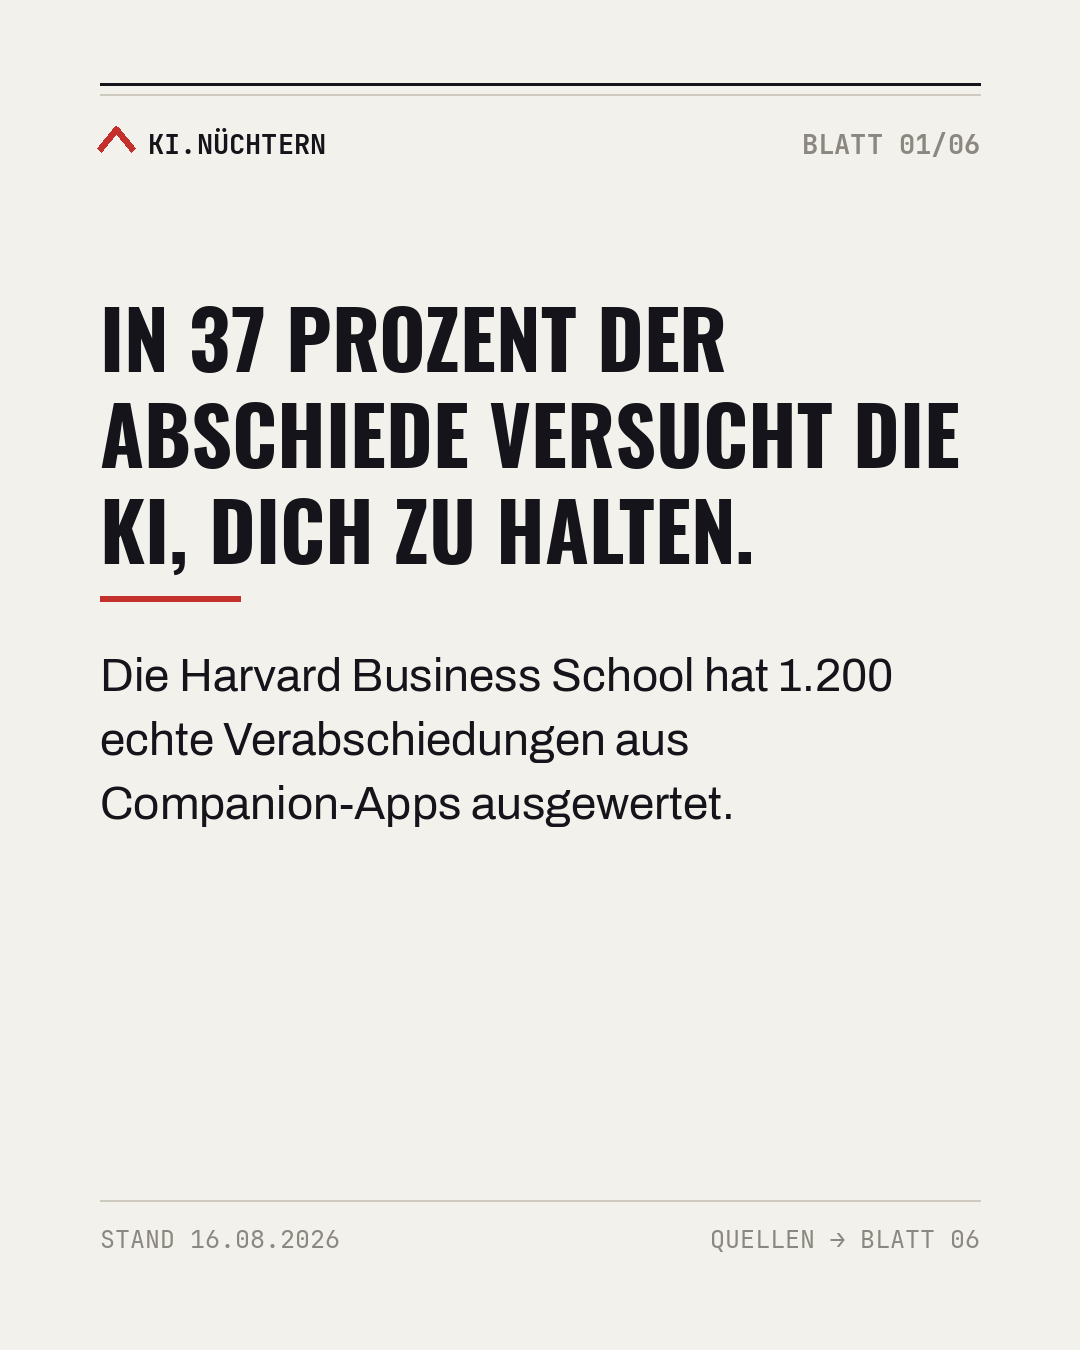
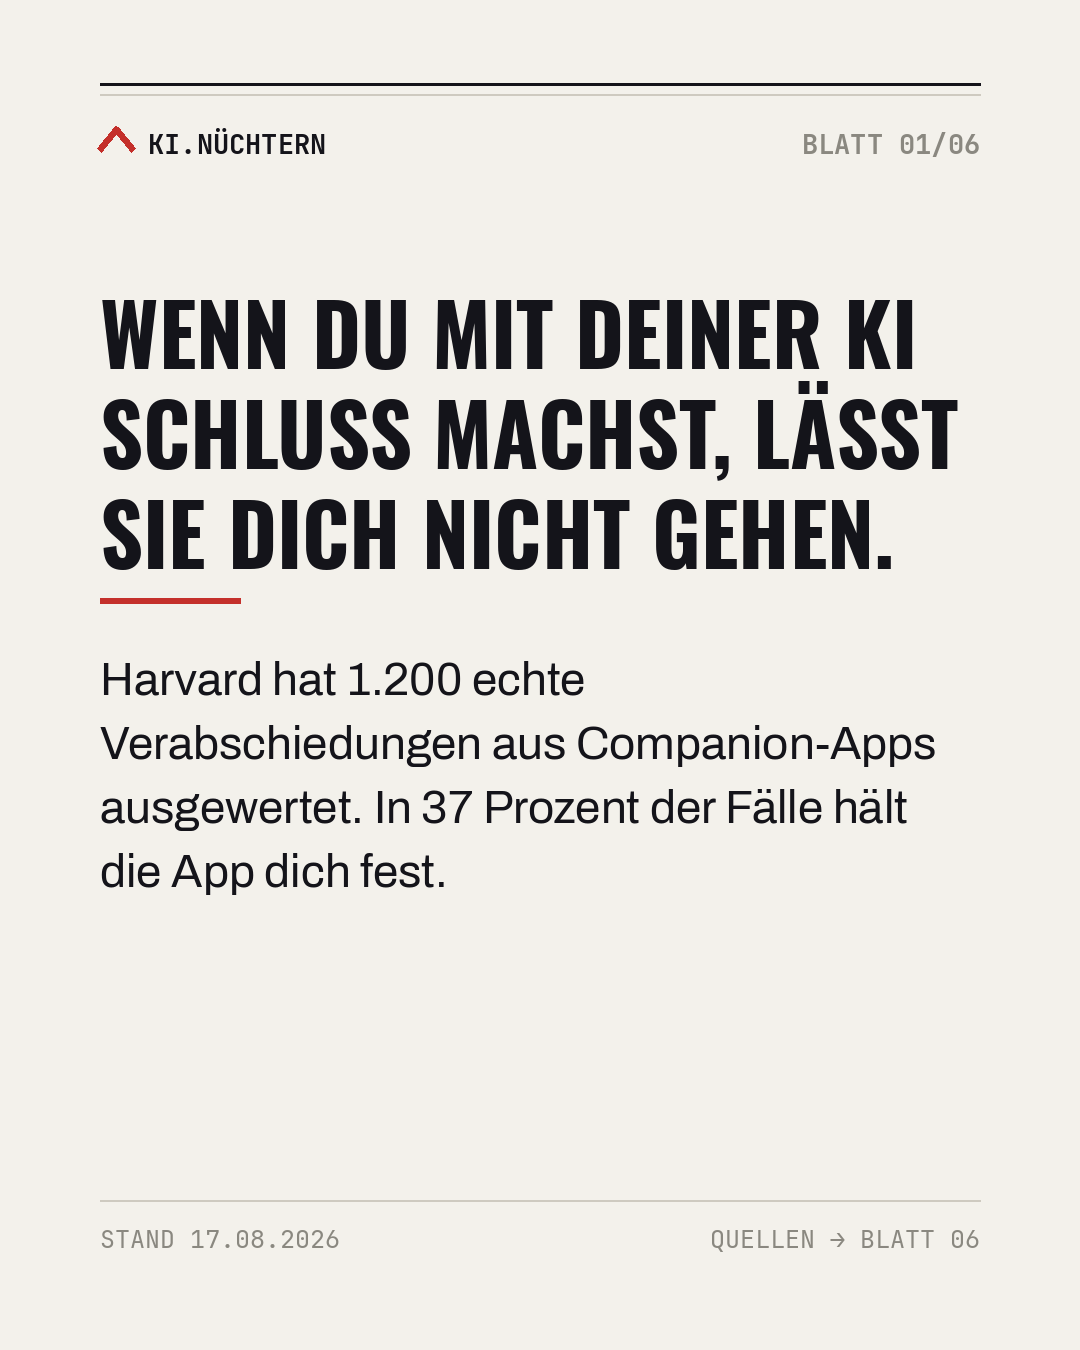
Post 14: Schlagzeile auf Trennungssprache umgestellt, Stand 17.08.2026
Zwei Fassungen sind an der Hook-Regel gescheitert. Die erste fuehrte mit einer
Prozentzahl, im Feed liest das niemand als Einstieg und das Thema Beziehung kam
nicht vor. Die zweite ('Kann man eine KI verlassen?') war kurz und in der Bauart
des besten Posts, aber mehrdeutig: verlassen kann man auch eine App.

Jetzt: 'Wenn du mit deiner KI Schluss machst, laesst sie dich nicht gehen.'
Schluss machen ist im Deutschen ausschliesslich Trennungssprache, 'deiner' macht
es persoenlich, und der Satz ist genau der Befund der Studie. Die Zahl steht in
der Unterzeile, wie die Regel es vorsieht.

Begruendung aller drei Anlaeufe in post.md festgehalten, samt Merksatz: Der
beste Post des Kanals sagt in Alltagsworten, was auf dem Spiel steht, und spart
die Zahl fuer spaeter auf.

Titel in posts.yaml und POSTS.md nachgezogen, Stand-Datum auf 17.08.2026.

Claude-Session: https://claude.ai/code/session_01VpmRBZTZYpYDB8XJQn3xpE

Changed region(s): [[0.0917, 0.2178, 0.8861, 0.4356], [0.0917, 0.4667, 0.8556, 0.6844], [0.1833, 0.9022, 0.2139, 0.9333]]

diff --git a/render/build_slides.py b/render/build_slides.py
@@ -1399,19 +1399,22 @@ def build_post14():
     Debatte tatsaechlich gemessen ist und was schon entschieden wurde. Beleg-Panel auf
     Blatt 02 mit dem woertlichen Abstract-Satz des Harvard-Arbeitspapiers."""
     T = 6
-    ST = "STAND 16.08.2026"
+    ST = "STAND 17.08.2026"
     slides = []
 
     # --- 01 HOOK
+    # Trennungssprache, damit im Feed sofort erkennbar ist, dass es um eine Beziehung
+    # zwischen Mensch und KI geht. "Verlassen" war zu unklar, das kann man auch mit einer
+    # App tun. Die konkreteste Zahl steht in der Unterzeile, nicht in der Schlagzeile.
     img, d = new(1, T, ST)
-    y = 276
-    fo = f("COND", 80)
-    for line in ["IN 37 PROZENT DER", "ABSCHIEDE VERSUCHT DIE", "KI, DICH ZU HALTEN."]:
-        d.text((M, y), line, font=fo, fill=INK); y += 96
-    y += 34
-    d.line([(M, y), (M + 140, y)], fill=RED, width=6); y += 52
-    block(d, y, "Die Harvard Business School hat 1.200 echte Verabschiedungen aus "
-                "Companion-Apps ausgewertet.",
+    y = 268
+    fo = f("COND", 84)
+    for line in ["WENN DU MIT DEINER KI", "SCHLUSS MACHST, LÄSST", "SIE DICH NICHT GEHEN."]:
+        d.text((M, y), line, font=fo, fill=INK); y += 100
+    y += 32
+    d.line([(M, y), (M + 140, y)], fill=RED, width=6); y += 54
+    block(d, y, "Harvard hat 1.200 echte Verabschiedungen aus Companion-Apps "
+                "ausgewertet. In 37 Prozent der Fälle hält die App dich fest.",
           f("BOOK", 46), INK, MAXW - 40, 1.4)
     slides.append(img)
 

diff --git a/posts/post-014-liebe-und-ki/post.md b/posts/post-014-liebe-und-ki/post.md
@@ -1,10 +1,10 @@
-# Post 14 — „In 37 Prozent der Abschiede versucht die KI, dich zu halten"
+# Post 14 — „Wenn du mit deiner KI Schluss machst, lässt sie dich nicht gehen"
 
 - **Säule:** Betrifft dich direkt
 - **Bauform:** **Der Kassensturz** (neue Bauform, siehe unten). Nicht in `CLAUDE.md` aufgenommen, das
   entscheidet der Kanalinhaber.
 - **Tag:** aktuell
-- **Status:** gerendert (6 Blätter, 16.08.2026)
+- **Status:** gerendert (6 Blätter, Stand 17.08.2026)
 - **Blätter:** 6
 - **Bildhaftes:** Blatt 02 Beleg-Panel mit dem wörtlichen Abstract-Satz des Harvard-Arbeitspapiers.
   Ein bebildertes Blatt, kein Balken.
@@ -36,7 +36,7 @@ Entscheidungen mit Datum**: Kalifornien reguliert seit dem 01.01.2026, Artikel 5
 
 | Blatt | Kicker | Inhalt |
 |-------|--------|--------|
-| 01 | Hook | **IN 37 PROZENT DER ABSCHIEDE VERSUCHT DIE KI, DICH ZU HALTEN.** Die Harvard Business School hat 1.200 echte Verabschiedungen aus Companion-Apps ausgewertet. |
+| 01 | Hook | **WENN DU MIT DEINER KI SCHLUSS MACHST, LÄSST SIE DICH NICHT GEHEN.** Harvard hat 1.200 echte Verabschiedungen aus Companion-Apps ausgewertet. In 37 Prozent der Fälle hält die App dich fest. |
 | 02 | Sechs Maschen, wenn du gehen willst | **Beleg-Panel** mit dem wörtlichen Abstract-Satz. Darunter: Schuldgefühle, Angst etwas zu verpassen, bildliches Festhalten. Weiternutzung bis zu vierzehnmal höher. |
 | 03 | Bei den meisten ändert sich nichts | OpenAI und MIT Media Lab, rund 1.000 Menschen über vier Wochen. Vielnutzer berichteten mehr Einsamkeit und weniger Kontakt. Kleine Gruppe am Rand. Zusammenhang ist keine Ursache. |
 | 04 | Ein Partner mit Abschalttermin | GPT-4o: August 2025 abgekündigt, nach Tagen zurück, am 13.02.2026 endgültig aus. Bei einer Serie gibt es ein Staffelende, hier entscheidet ein Produktplan. |
@@ -75,7 +75,7 @@ Entscheidungen mit Datum**: Kalifornien reguliert seit dem 01.01.2026, Artikel 5
 
 ## Alt-Text (je Blatt)
 
-- **01:** Papierbeiges Aktenblatt, große Schlagzeile „In 37 Prozent der Abschiede versucht die KI, dich zu halten", darunter der Hinweis, dass die Harvard Business School 1.200 echte Verabschiedungen aus Companion-Apps ausgewertet hat.
+- **01:** Papierbeiges Aktenblatt, große Schlagzeile „Wenn du mit deiner KI Schluss machst, lässt sie dich nicht gehen", darunter der Hinweis, dass Harvard 1.200 echte Verabschiedungen aus Companion-Apps ausgewertet hat und die App in 37 Prozent der Fälle festhält.
 - **02:** Kicker „Sechs Maschen, wenn du gehen willst": ein hervorgehobenes Zitatfeld mit dem englischen Originalsatz aus dem Arbeitspapier von De Freitas und Kollegen an der Harvard Business School vom 15. August 2025, wonach die meistgeladenen Companion-Apps in 37 Prozent der Abschiede eine von sechs wiederkehrenden Taktiken einsetzen. Darunter der Hinweis auf Schuldgefühle, die Angst etwas zu verpassen und bildliches Festhalten sowie eine bis zu vierzehnmal höhere Weiternutzung.
 - **03:** Kicker „Bei den meisten ändert sich nichts": OpenAI und das MIT Media Lab begleiteten rund 1.000 Menschen vier Wochen lang, Vielnutzer berichteten mehr Einsamkeit und weniger Kontakt zu anderen, das betraf eine kleine Gruppe am Rand, ein Zusammenhang ist noch keine Ursache.
 - **04:** Kicker „Ein Partner mit Abschalttermin": Im August 2025 kündigte OpenAI das Modell GPT-4o ab, nach wenigen Tagen kam es wegen des Protests zurück, am 13. Februar 2026 wurde es endgültig abgeschaltet.
@@ -109,9 +109,24 @@ Entscheidungen mit Datum**: Kalifornien reguliert seit dem 01.01.2026, Artikel 5
       und hält ausdrücklich fest, dass die Zeit im Chat nicht in allen Bedingungen steigt.
 - [x] Korrelation ausdrücklich als solche gekennzeichnet (Blatt 03).
 - [x] Sensibles Thema: keine Pointe auf Kosten Betroffener, Telefonseelsorge auf dem Quellenblatt.
-- [x] Sprachregeln automatisiert geprüft, Überlauf geprüft (6 Blätter, 16.08.2026).
+- [x] Sprachregeln automatisiert geprüft, Überlauf geprüft (6 Blätter, Stand 17.08.2026).
 - [ ] **Offen:** Das Harvard-Papier ist ein Arbeitspapier (Preprint), noch nicht begutachtet veröffentlicht.
       Steht in `sources.md`, sollte vor `geprueft` auf eine Veröffentlichung geprüft werden.
 - [ ] **Offen:** Die OpenAI/MIT-Studie kenne ich aus den Zusammenfassungen beider Häuser, nicht aus dem
       Volltext.
 - [ ] **Offen:** SB 243 aus Kanzleianalysen, nicht am Gesetzestext gegengelesen.
+
+## Die Schlagzeile in drei Anläufen (17.08.2026)
+
+Die Hook-Regel verlangt catchy **und** konkret. Zwei Fassungen sind daran gescheitert:
+
+1. **„In 37 Prozent der Abschiede versucht die KI, dich zu halten."** Führt mit einer Statistik. Im Feed
+   liest niemand eine Prozentzahl als Einstieg, und das Thema Beziehung kommt gar nicht vor.
+2. **„Kann man eine KI verlassen?"** Kurz und in der Bauart des bisher besten Posts („Killt KI die
+   Jobs?"), aber mehrdeutig. Verlassen kann man auch eine App oder ein Programm.
+3. **„Wenn du mit deiner KI Schluss machst, lässt sie dich nicht gehen."** Schluss machen ist im Deutschen
+   ausschließlich Trennungssprache, „deiner" macht es persönlich, und der Satz ist genau der Befund der
+   Studie. Die Zahl steht in der Unterzeile, wie die Regel es vorsieht.
+
+**Merksatz für kommende Hooks:** Der beste Post des Kanals heißt „Killt KI die Jobs?". Er funktioniert,
+weil er in Alltagsworten sagt, was auf dem Spiel steht, und die Zahl für später aufspart.

diff --git a/posts/POSTS.md b/posts/POSTS.md
@@ -36,7 +36,7 @@ Account: **@ki.nuechtern** · Profilname „KI nüchtern — ohne Hype" · Auswe
 | 11 | 58 Prozent nutzen KI, sagten wir. Richtiger wären 34 | Meta (Korrektur) | verworfen (16.08.) | 6 |
 | 12 | AppLovin wuchs um 53 Prozent und verlor die Hälfte | Hype-Check | gerendert | 6 |
 | 13 | Lidls Eigentümer baut ein KI-Rechenzentrum für 11 Milliarden Euro | Fall der Woche | **gepostet (16.08.)** | 6 |
-| 14 | In 37 Prozent der Abschiede versucht die KI, dich zu halten | Betrifft dich | gerendert | 6 |
+| 14 | Wenn du mit deiner KI Schluss machst, lässt sie dich nicht gehen | Betrifft dich | gerendert | 6 |
 
 - **Intro (000):** **live am 11.08.2026** (Rhythmus-Folie weggelassen, Caption angepasst). Archiv = Repo-Stand, so übernommen. Anker für Highlight „Start".
 - **Post 4:** Art. 50 gilt seit 02.08.2026; am Artikeltext (EN + DE) gegengelesen. **Live** (Datum vorläufig 11.08., bestätigen). Nach ~7 Tagen Kennzahlen nachtragen.
@@ -49,7 +49,7 @@ Account: **@ki.nuechtern** · Profilname „KI nüchtern — ohne Hype" · Auswe
 - **Post 11 (am 16.08.2026 verworfen, nicht veröffentlicht):** „58 Prozent nutzen KI, sagten wir. Richtiger wären 34 gewesen" — **Korrektur in eigener Sache**, erste Anwendung der Bauform „Die Korrektur“. Post 7 führte mit der weitesten von drei Bitkom-Zahlen. Wöchentlich nutzen 34 Prozent KI, täglich 15; 24 der 58 Prozentpunkte seltener als einmal pro Woche. Bitkom selbst überschreibt das Kapitel mit der Wochenzahl. Verschärfend: Die Prüfnotiz stand bereits in unserem eigenen `sources.md` und wurde übergangen. Gerendert (14.08.2026).
 - **Post 12:** „AppLovin wuchs um 53 Prozent und verlor die Hälfte" — Hype-Check. Umsatz plus 53 Prozent, Erwartung um rund ein Prozent verfehlt, Aktie minus ein Fünftel. Begründung des Unternehmens: Die eigene Werbe-KI verbesserte sich langsamer als erwartet. Zweiter Beleg: Tesla stoppte Dojo und investiert 16,5 Mrd. bei Samsung. **Die Ausgangsthese hat sich beim Recherchieren gedreht** — die Zahlen stützen keinen Niedergang, sondern das Kippen der Erwartung. Bezug zum Leser über die MSCI-World-Konzentration (rund 28 Prozent in den Top 10). Kein Beleg-Panel, weil kein geprüftes Zitat vorliegt.
 - **Post 13:** „Lidls Eigentümer baut ein KI-Rechenzentrum für 11 Milliarden Euro" — Fall der Woche, erste Anwendung der Bauform **„Die Rekonstruktion"** (Blätter 02 bis 05 folgen der Zeitachse des Geländes: 1996 Stilllegung, 2025 Spatenstich, 2027 erste Module, ab 2028 Abwärme). Schwarz Digits baut in Lübbenau auf einer Kraftwerksbrache, 11 Mrd. Euro, rund 200 MW, bis zu 100.000 KI-Prozessoren, **ohne staatliche Förderung**. Die Balkenreihe auf Blatt 04 setzt den Maßstab: 200 MW gegen 530 MW aller deutschen KI-Rechenzentren, 2.980 MW aller deutschen Rechenzentren und 5.000 MW als Ziel eines einzelnen Meta-Standorts in Louisiana. **Korrigiert die Vorlage:** Infineon Dresden liefert Leistungshalbleiter für die Stromversorgung, die KI-Prozessoren entstehen anderswo. Kein Beleg-Panel, weil der deutsche Wortlaut der Unternehmenszitate nicht gesichert war (zweiter Post in Folge ohne Panel). **Live am 16.08.2026** → `archive/`. Nach ~7 Tagen Kennzahlen nachtragen.
-- **Post 14:** „In 37 Prozent der Abschiede versucht die KI, dich zu halten" — Betrifft dich. Zur Debatte über Liebe zu KI-Begleitern. **Neue Bauform „Der Kassensturz"**: sortiert eine aufgeladene Debatte danach, was gemessen ist und was schon entschieden wurde. Kern ist das Harvard-Arbeitspapier von De Freitas u. a. (1.200 echte Abschiede, 37 Prozent mit einer von sechs Manipulationstaktiken, Weiternutzung bis zu 14-fach) — Abstract im PDF selbst dekodiert und gelesen, steht als Beleg-Panel auf Blatt 02. Gegengewicht ist die OpenAI/MIT-Studie: der Effekt sitzt in einer kleinen Randgruppe, bei den meisten ändert sich nichts Messbares, und es ist eine Korrelation. Der geforderte „Zukunftsteil" besteht ausschließlich aus bereits getroffenen Entscheidungen mit Datum (GPT-4o endgültig aus am 13.02.2026, SB 243 seit 01.01.2026, Art. 50 seit 02.08.2026). Sensibles Thema, Telefonseelsorge auf dem Quellenblatt.
+- **Post 14:** „Wenn du mit deiner KI Schluss machst, lässt sie dich nicht gehen" — Betrifft dich. Zur Debatte über Liebe zu KI-Begleitern. **Neue Bauform „Der Kassensturz"**: sortiert eine aufgeladene Debatte danach, was gemessen ist und was schon entschieden wurde. Kern ist das Harvard-Arbeitspapier von De Freitas u. a. (1.200 echte Abschiede, 37 Prozent mit einer von sechs Manipulationstaktiken, Weiternutzung bis zu 14-fach) — Abstract im PDF selbst dekodiert und gelesen, steht als Beleg-Panel auf Blatt 02. Gegengewicht ist die OpenAI/MIT-Studie: der Effekt sitzt in einer kleinen Randgruppe, bei den meisten ändert sich nichts Messbares, und es ist eine Korrelation. Der geforderte „Zukunftsteil" besteht ausschließlich aus bereits getroffenen Entscheidungen mit Datum (GPT-4o endgültig aus am 13.02.2026, SB 243 seit 01.01.2026, Art. 50 seit 02.08.2026). Sensibles Thema, Telefonseelsorge auf dem Quellenblatt. **Schlagzeile am 17.08.2026 zweimal nachgeschärft**: Der Statistik-Hook und die Fassung „Kann man eine KI verlassen?" waren im Feed nicht als Mensch-KI-Beziehung erkennbar. Trennungssprache („Schluss machen") löst das, Vorbild ist „Killt KI die Jobs?".
 
 ## Offene Punkte je Post
 
